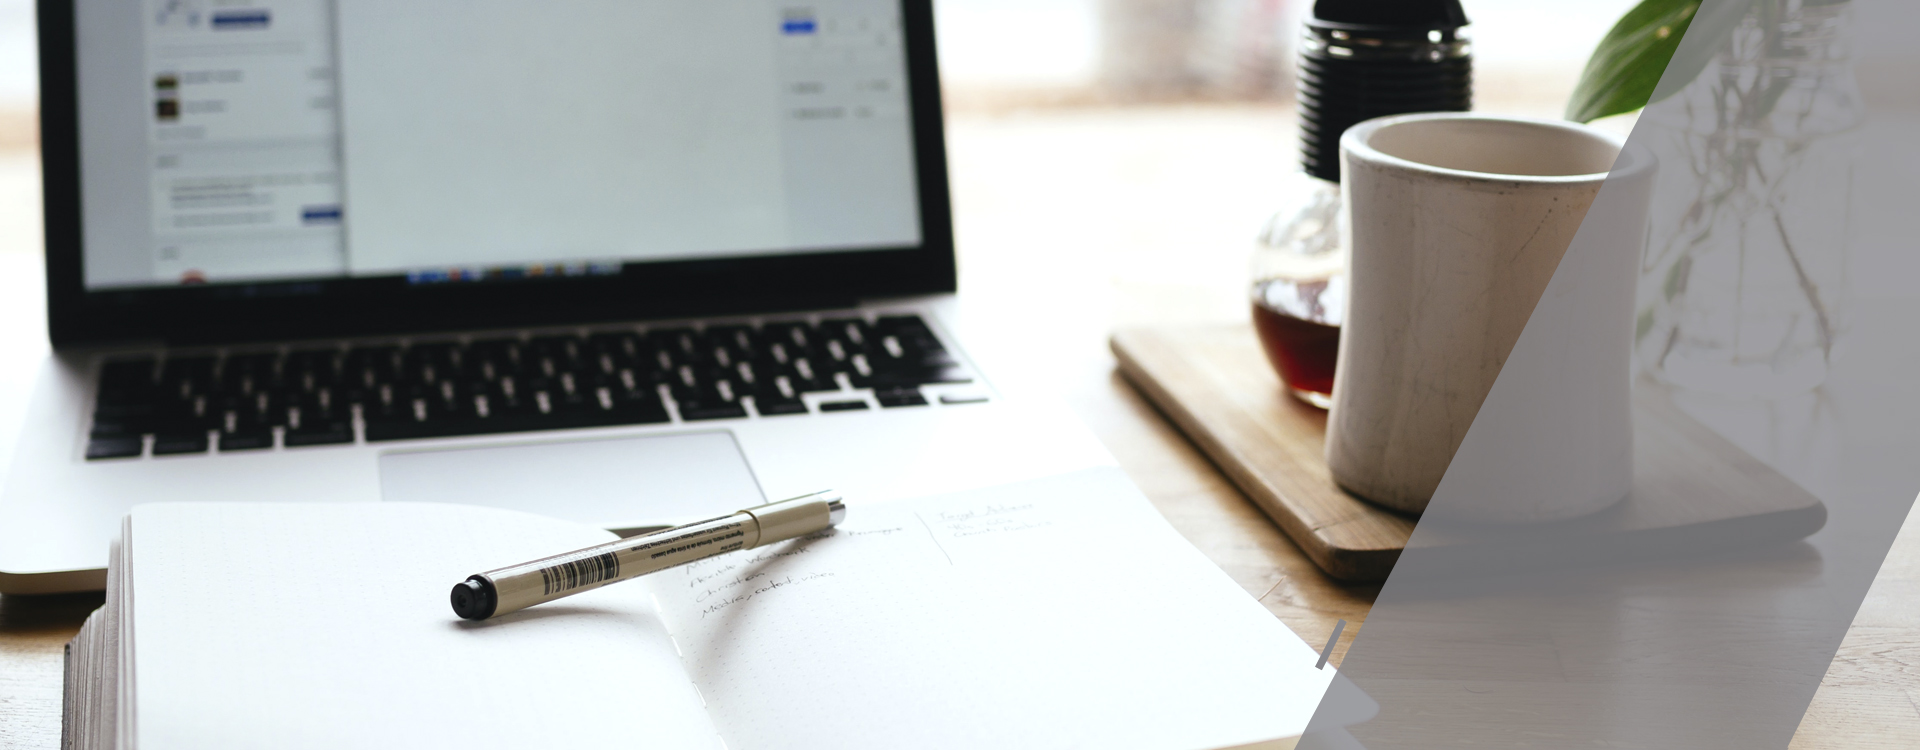
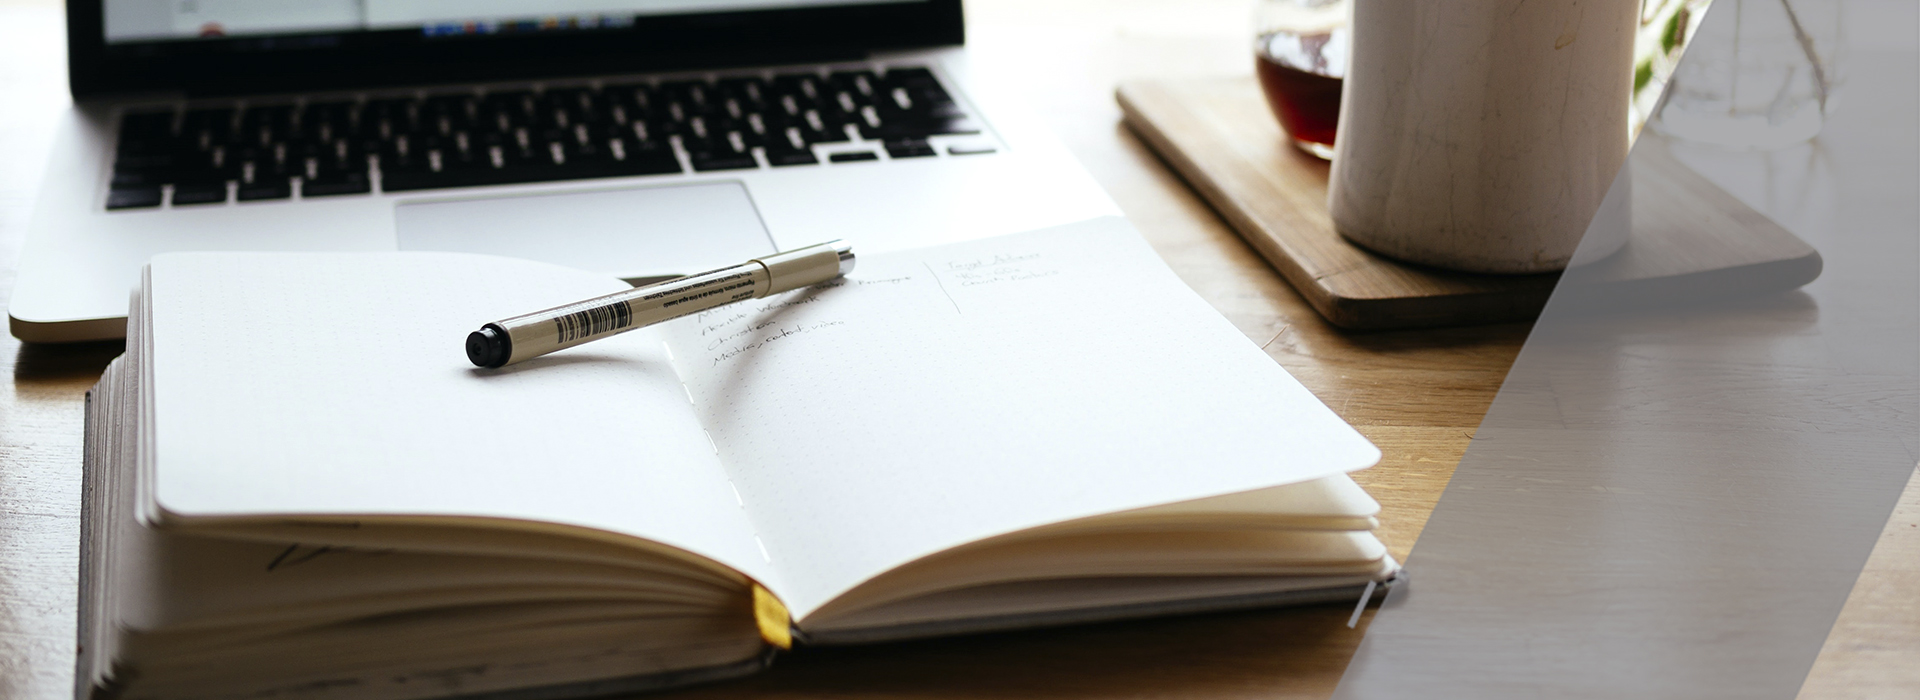
first commit

diff --git a/css/blog.css b/css/blog.css
@@ -1,8 +1,8 @@
 .header {
     /* background-image: url("../assets/images/sliders/mnosotros.jpg"); */
     background-repeat: no-repeat;
-    background-position: center;
-    background-size: cover;
+    background-position: top;
+    background-size: 100%;
     background-attachment: fixed;
 }
 

diff --git a/css/productos.css b/css/productos.css
@@ -1,8 +1,8 @@
 .header {
     background-image: url("../assets/images/sliders/mproductos.jpg");
     background-repeat: no-repeat;
-    background-position: center;
-    background-size: cover;
+    background-position: top;
+    background-size: 100%;
     background-attachment: fixed;
 }
 

diff --git a/css/servicios.css b/css/servicios.css
@@ -1,8 +1,8 @@
 .header {
     background-image: url("../assets/images/sliders/mservicios.jpg");
     background-repeat: no-repeat;
-    background-position: center;
-    background-size: cover;
+    background-position: top;
+    background-size: 100%;
     background-attachment: fixed;
 }
 

diff --git a/css/contacto.css b/css/contacto.css
@@ -1,8 +1,8 @@
 .header {
     background-image: url("../assets/images/sliders/mcontacto.jpg");
     background-repeat: no-repeat;
-    background-position: center;
-    background-size: cover;
+    background-position: top;
+    background-size: 100%;
     background-attachment: fixed;
 }
 
